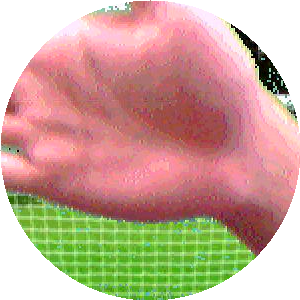
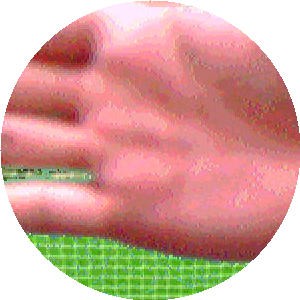
up

diff --git a/Software/은성/backup/0924final.py b/Software/은성/backup/0924final.py
@@ -571,7 +571,8 @@ def main():
                     else:
                         if game_state["end_video"]: game_state["end_video"].set(cv2.CAP_PROP_POS_FRAMES, 0)
                         start_transition("end")
-            should_play_gif = (game_state["is_failure"] or game_state["is_success"] or game_state["attacker_did_not_kick"]) and game_state["result_time"] and (pygame.time.get_ticks() - game_state["result_time"] > 2000)
+            should_play_gif = (game_state["is_failure"] or game_state["is_success"]) and game_state["result_time"] and (pygame.time.get_ticks() - game_state["result_time"] > 2000)
+            GIF_FRAME_DURATION = 70
             gif_key = None # ★ 변경: gif_key 초기화
             if game_state.get("attacker_did_not_kick", False): # ★ 추가: 공격수 未선택 상태를 가장 먼저 체크
                 gif_key = 'miss_kick'
@@ -592,7 +593,7 @@ def main():
                     screen.blit(frame_surface, (goalkeeper_start_x, 0))
                     if game_state["game_mode"] == "multi": screen.blit(frame_surface, (attacker_start_x, 0))
                     current_time = pygame.time.get_ticks()
-                    if current_time - game_state["gif_last_frame_time"] > 70:
+                    if current_time - game_state["gif_last_frame_time"] > GIF_FRAME_DURATION:
                         game_state['gif_frame_index'] = (current_index + 1) % len(frame_list)
                         game_state["gif_last_frame_time"] = current_time
         elif current_screen == "info":
